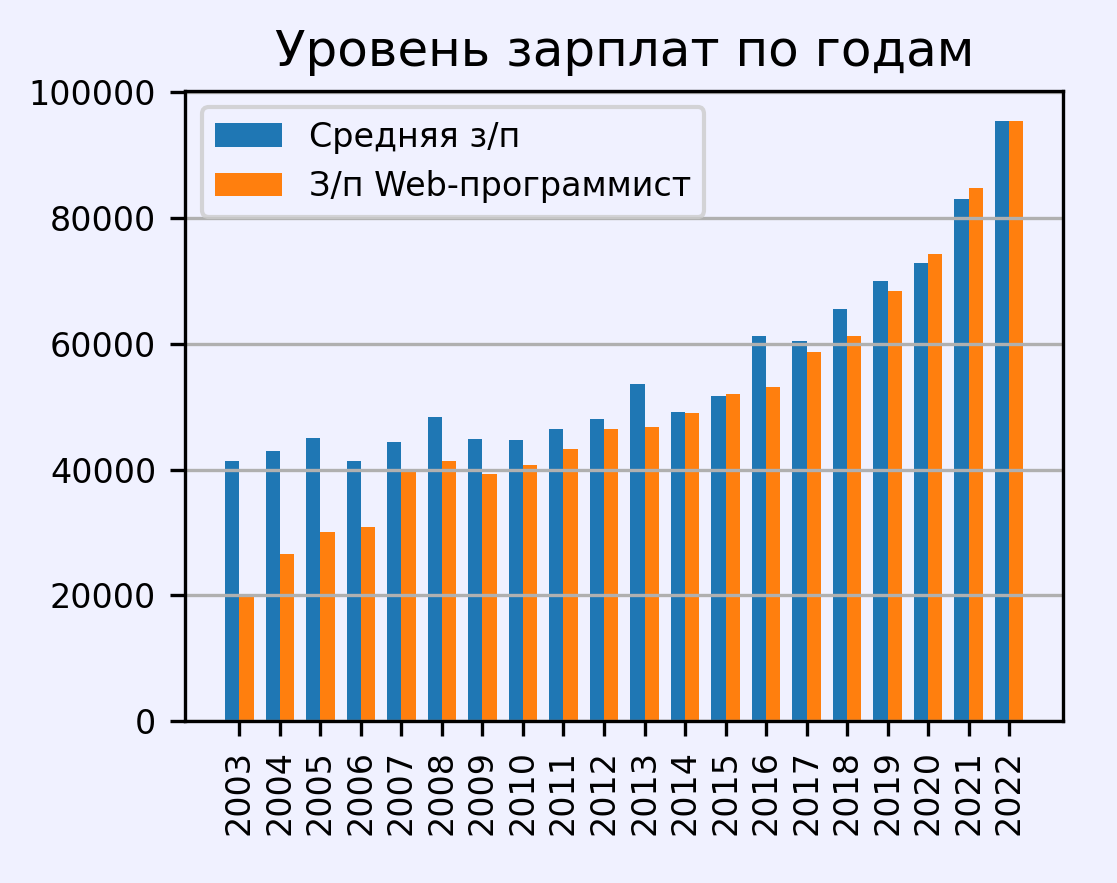
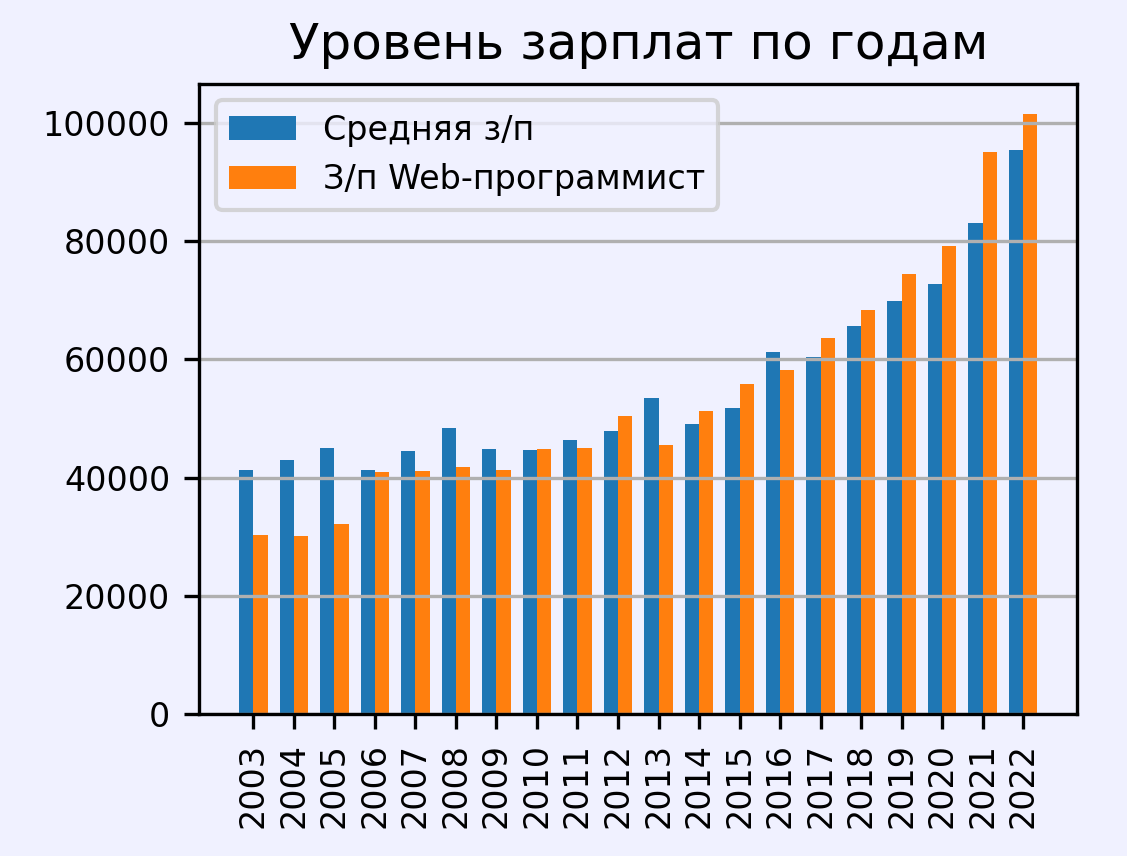
updates

Changed region(s): [[0.0304, 0.0304, 0.974, 0.972]]

diff --git a/analiticsScripts/graph.py b/analiticsScripts/graph.py
@@ -126,9 +126,9 @@ class Graph:
 
 if __name__ == '__main__':
     salaries = {'2003': 41304, '2004': 42967, '2005': 44938, '2006': 41317, '2007': 44449, '2008': 48411, '2009': 44811, '2010': 44657, '2011': 46448, '2012': 47969, '2013': 53541, '2014': 49076, '2015': 51734, '2016': 61305, '2017': 60363, '2018': 65581, '2019': 69938, '2020': 72833, '2021': 83061, '2022': 95473}
-    salaries_vac = {'2003': 20086, '2004': 26592, '2005': 30155, '2006': 30825, '2007': 39915, '2008': 41326, '2009': 39359, '2010': 40685, '2011': 43249, '2012': 46498, '2013': 46761, '2014': 48973, '2015': 52025, '2016': 53114, '2017': 58626, '2018': 61267, '2019': 68327, '2020': 74302, '2021': 84711, '2022': 95434}
+    salaries_vac = {'2003': 30318, '2004': 30209, '2005': 32089, '2006': 40923, '2007': 41119, '2008': 41776, '2009': 41269, '2010': 44884, '2011': 44970, '2012': 50454, '2013': 45528, '2014': 51206, '2015': 55777, '2016': 58280, '2017': 63581, '2018': 68357, '2019': 74418, '2020': 79103, '2021': 95131, '2022': 101579}
     count = {'2003': 1983, '2004': 7833, '2005': 16022, '2006': 33321, '2007': 53562, '2008': 75070, '2009': 52889, '2010': 93494, '2011': 142458, '2012': 173897, '2013': 234019, '2014': 259571, '2015': 284763, '2016': 332460, '2017': 391464, '2018': 517670, '2019': 535956, '2020': 489472, '2021': 287915, '2022': 91142}
-    count_vac = {'2003': 8, '2004': 36, '2005': 101, '2006': 368, '2007': 590, '2008': 873, '2009': 719, '2010': 1206, '2011': 2300, '2012': 2389, '2013': 3135, '2014': 3397, '2015': 4306, '2016': 5550, '2017': 6386, '2018': 6913, '2019': 5701, '2020': 4173, '2021': 1743, '2022': 460}
+    count_vac = {'2003': 14, '2004': 63, '2005': 154, '2006': 568, '2007': 871, '2008': 1216, '2009': 1012, '2010': 1678, '2011': 3094, '2012': 3396, '2013': 5025, '2014': 4791, '2015': 5699, '2016': 7606, '2017': 8570, '2018': 9434, '2019': 7992, '2020': 5850, '2021': 2746, '2022': 690}
     area_sal = [('Минск', 94092), ('Киев', 79895), ('Москва', 78957), ('Санкт-Петербург', 68747), ('Новосибирск', 64771), ('Екатеринбург', 59139), ('Краснодар', 51585), ('Казань', 51309), ('Нижний Новгород', 49914), ('Самара', 49548)]
     area_count = [('Москва', 0.334026018899322), ('Санкт-Петербург', 0.10140489688122169), ('Минск', 0.04061388562982566), ('Киев', 0.032169142232281484), ('Новосибирск', 0.023631882611882666), ('Нижний Новгород', 0.02144437701366958), ('Екатеринбург', 0.019727059964500273), ('Алматы', 0.01892116268106615), ('Воронеж', 0.018596006194905916), ('Казань', 0.01856606725806701), ('Ростов-на-Дону', 0.01388700407194081), ('Краснодар', 0.013454607295628106), ('Самара', 0.012670550712019083), ('Пермь', 0.010215312490107268)]
 
